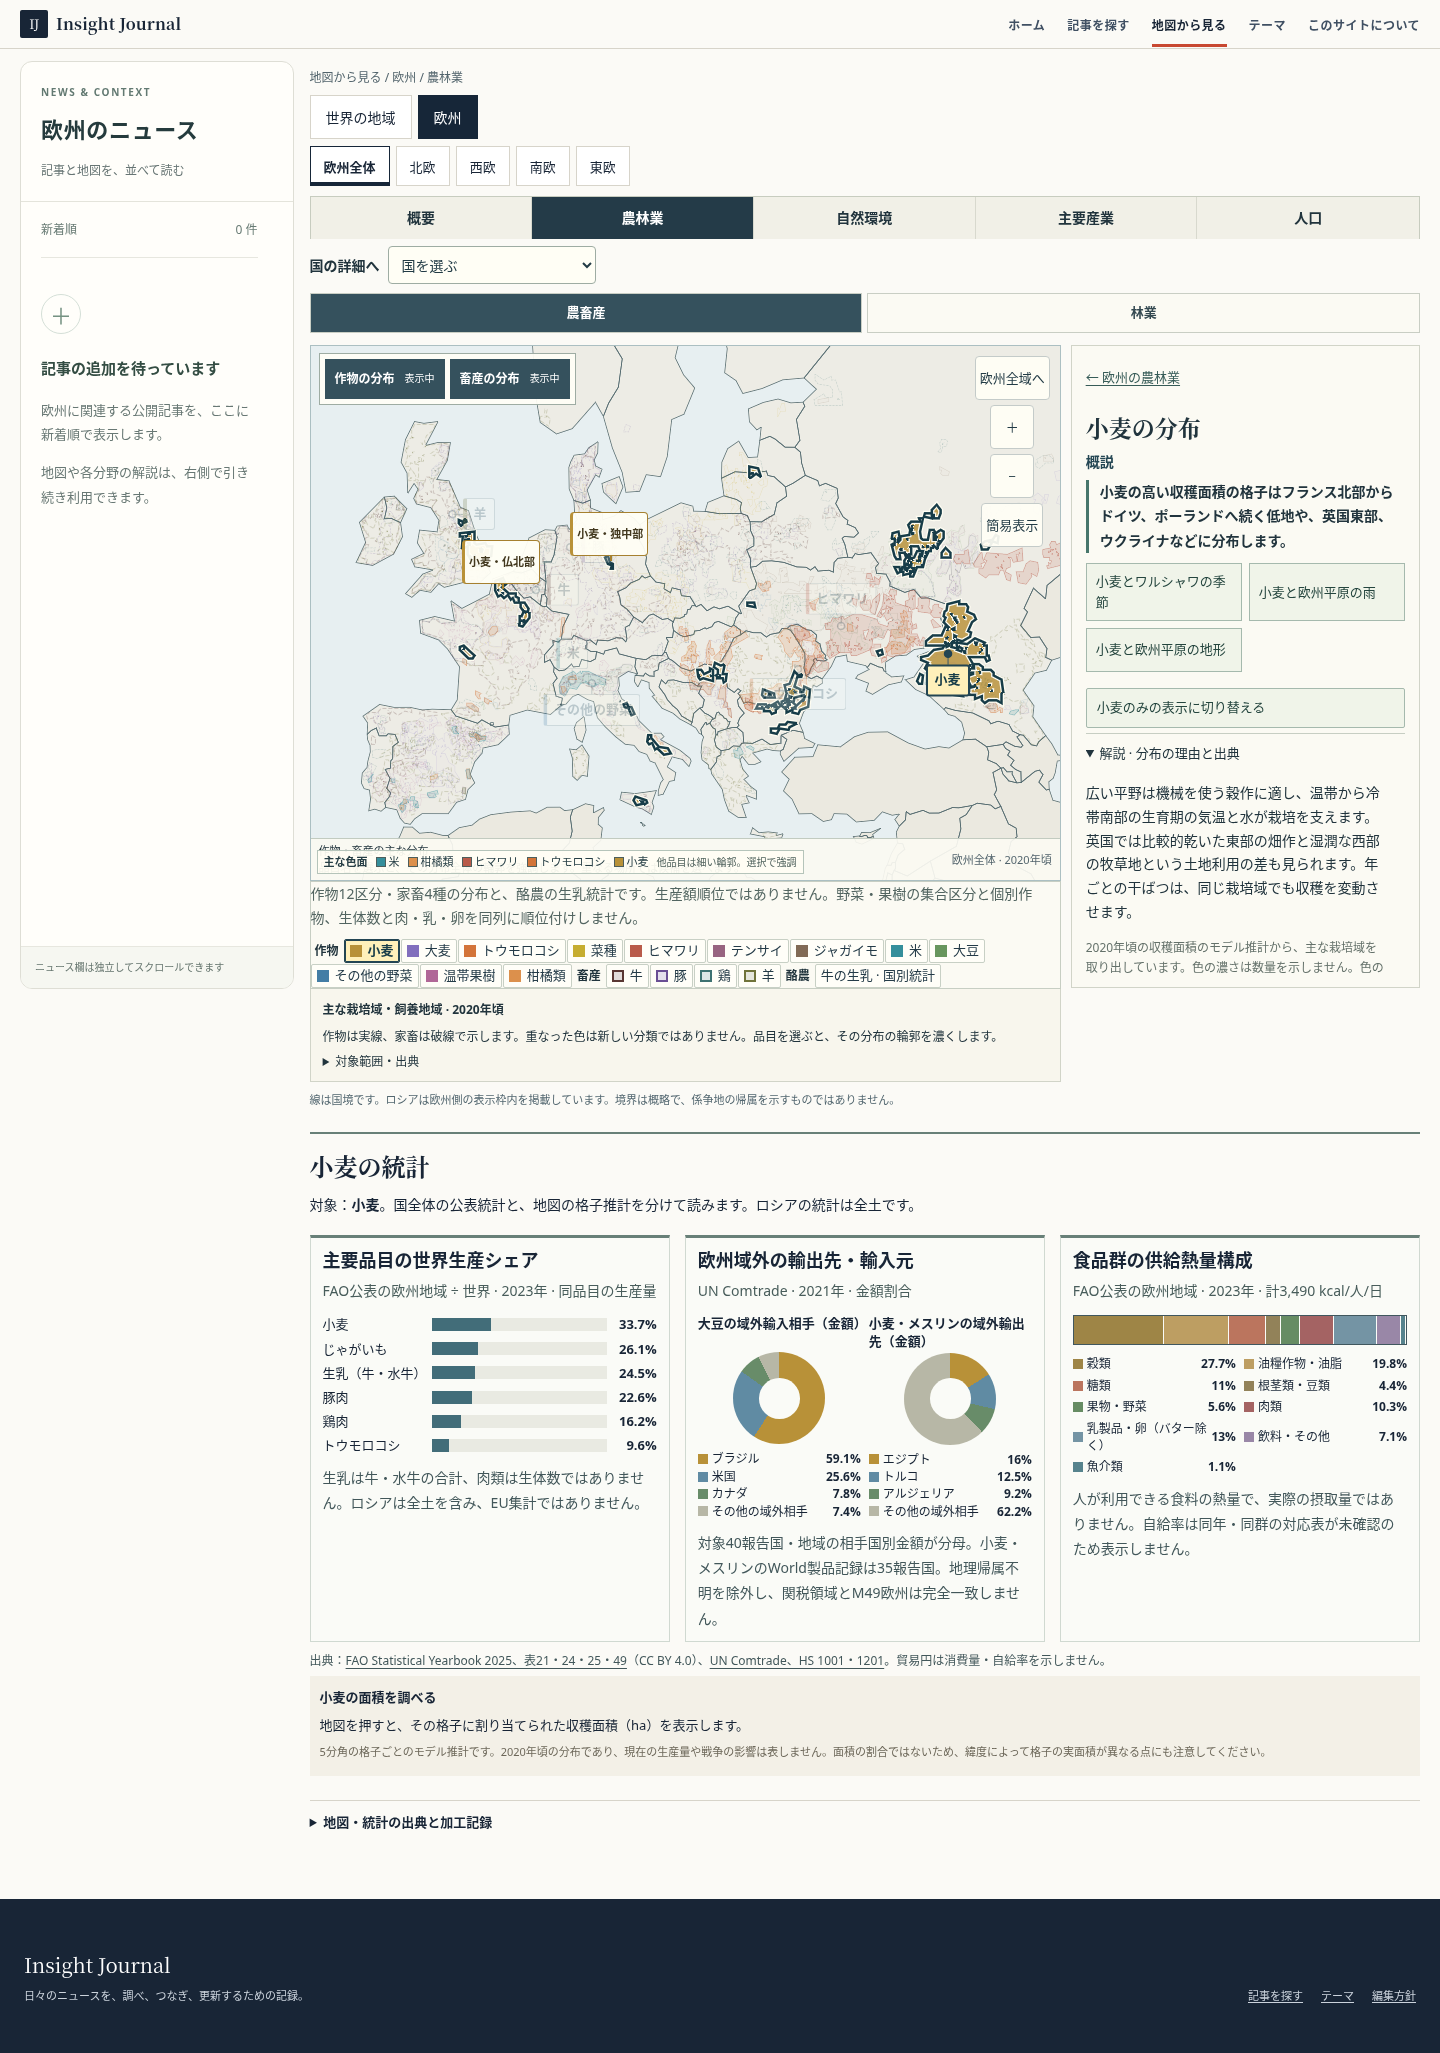
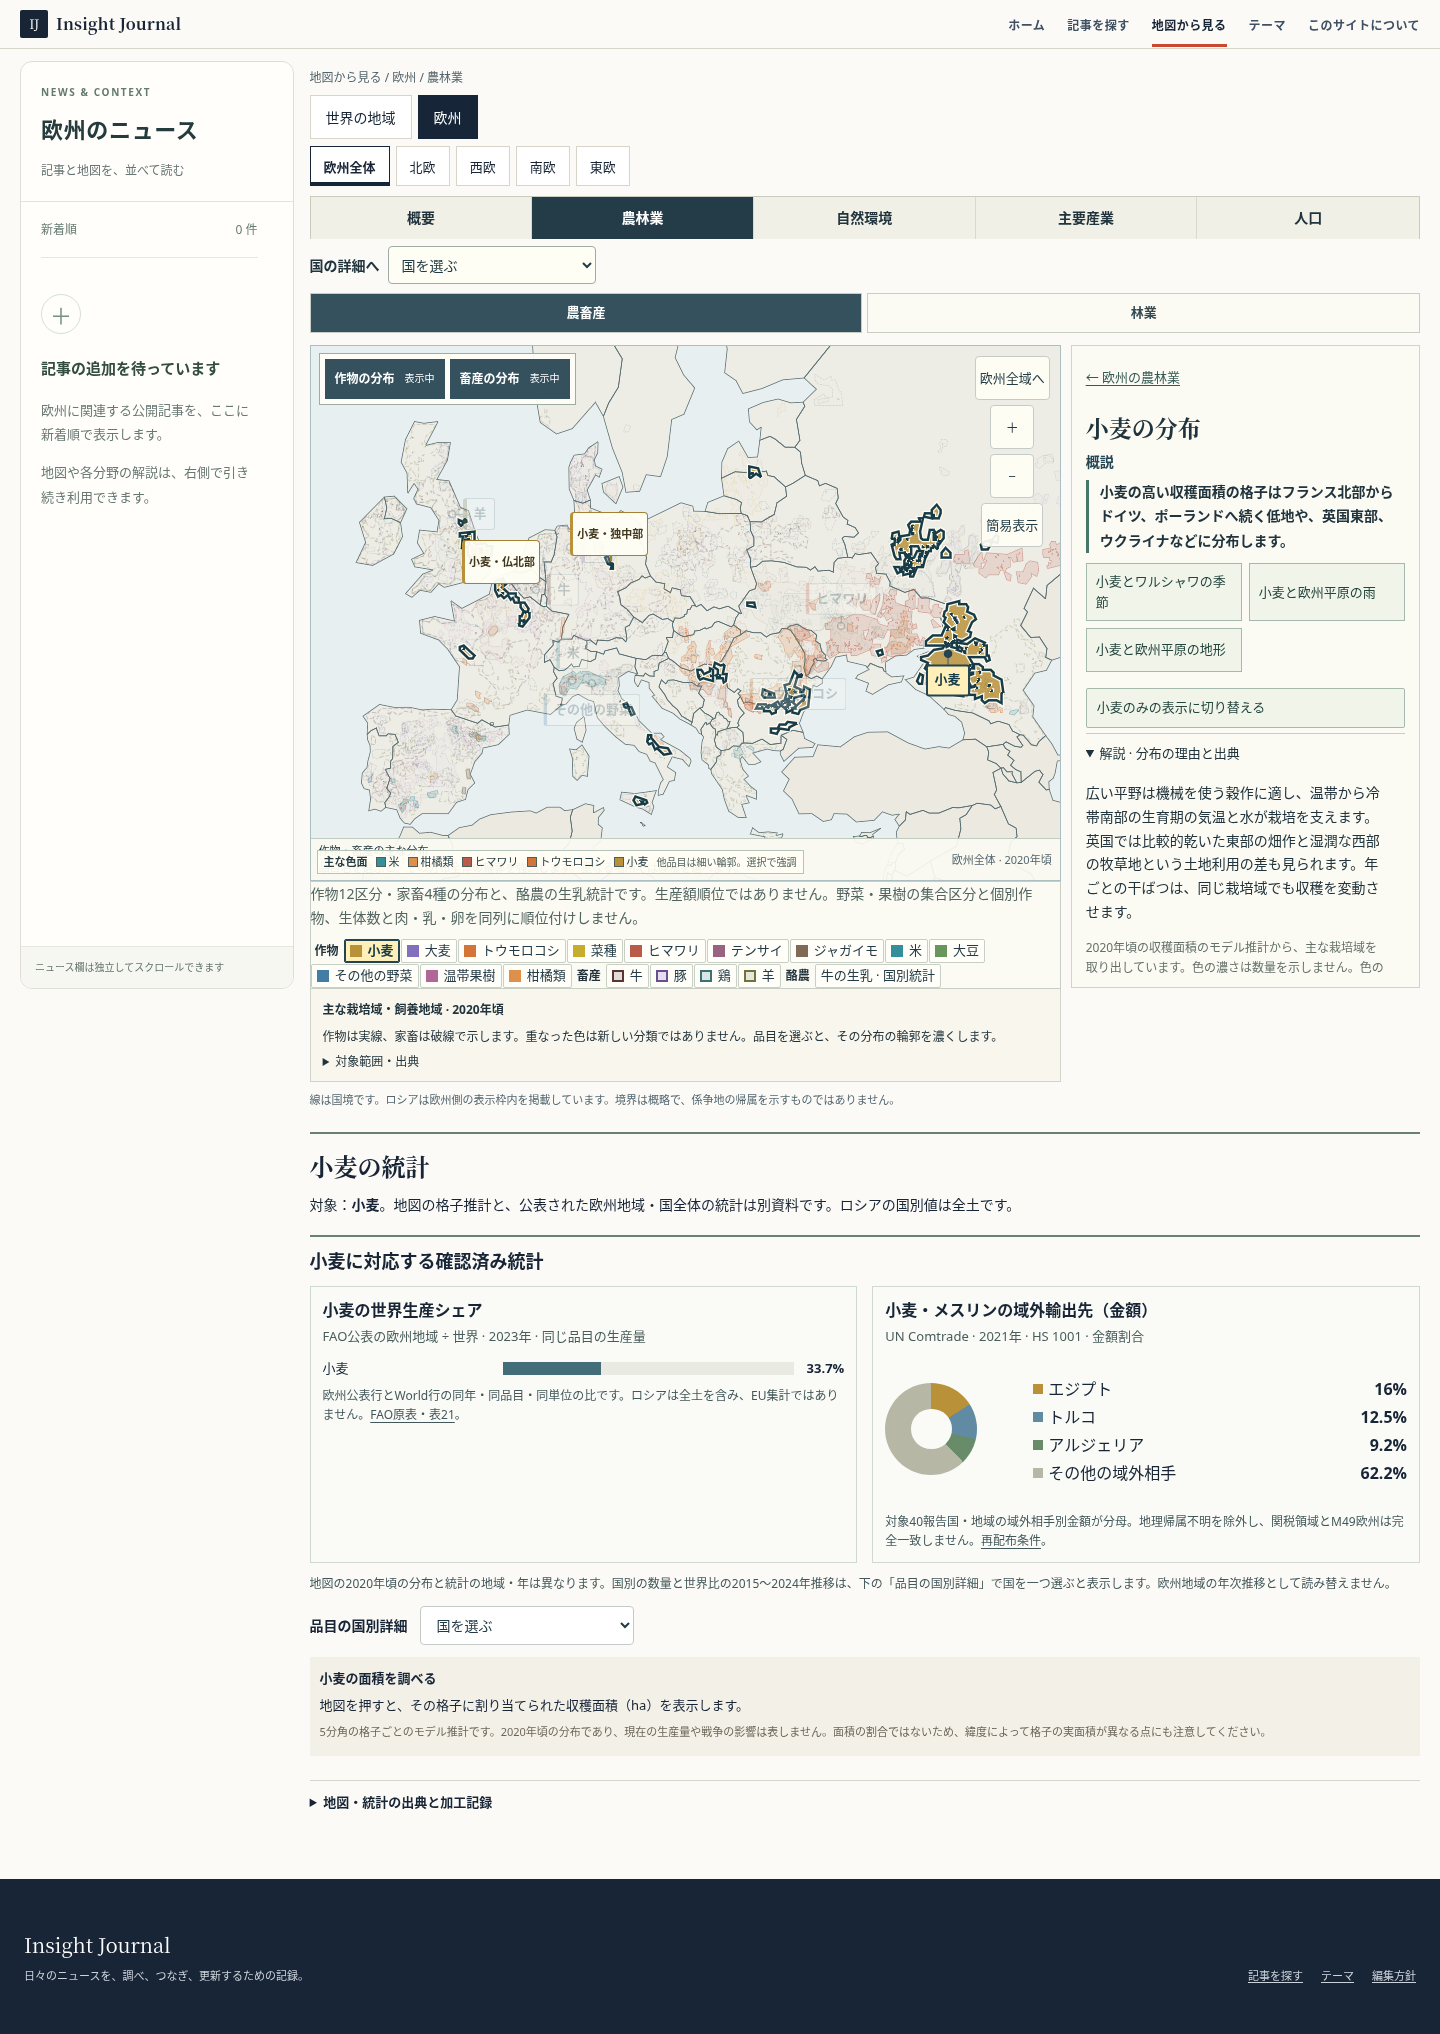
Fix Europe commodity statistics to follow selected subject

diff --git a/src/lib/atlas-europe-explorer.ts b/src/lib/atlas-europe-explorer.ts
@@ -1,5 +1,6 @@
 import { frame, europeFarmingInitialBounds, project, unproject, wheatCell, displayCell, visibleBounds, readEuropeState, writeEuropeState, defaultEuropeCity, normaliseEuropePoint } from './atlas-europe-view';
 import { farmingPresentation, farmingAtPoint, updateFarmingMap, type FarmingAreas } from './atlas-europe-farming';
+import { europeFarmAvailableMetrics } from '../data/atlas/europe/farming-statistics';
 import { layerColor, fields, europeFieldHeadings, type EuropeLayer } from '../data/atlas/europe/layers';
 import type { EuropeReading } from '../data/atlas/europe/readings';
 import type { Geometry } from './atlas-europe-geometry';
@@ -15,7 +16,6 @@ import drainageManifest from '../../public/assets/atlas/europe/drainage-v1/manif
 import { readEuropeFarmingFocus, writeEuropeFarmingFocus } from '../data/atlas/europe/farming-water-comparisons';
 import { europeIndustryGroupCopy, europeIndustryMatches, europeIndustryOverviewLabels, isEuropeIndustryCountry, normaliseEuropeIndustryGroup } from './atlas-europe-industry';
 import { createEuropeFarmingStatistics } from '../scripts/atlas-europe-farming-statistics';
-import { europeFarmAvailableMetrics } from '../data/atlas/europe/farming-statistics';
 import { createEuropeCultureOverview, europeCultureOverviewPlaces } from './atlas-europe-culture-overview';
 import precipitationLineLabels from '../data/atlas/europe/precipitation-line-labels.json' with {type:'json'};
 import { europeTerrainGuides, europeTerrainPlaceNames } from '../data/atlas/europe/terrain-geography';
@@ -70,6 +70,8 @@ export function initEuropeAtlas() {
       commit(false);
     },
   });
+  const topicCountrySelect=query<HTMLSelectElement>('[data-eu-topic-country]');
+  topicCountrySelect.addEventListener('change',()=>selectCountry(topicCountrySelect.value));
   const cultureActive=()=>state.layer==='ethnicity'||state.layer==='religion';
   const cultureOverview=createEuropeCultureOverview(root);
   let cultureData:CultureMapData={type:'FeatureCollection',features:[]};
@@ -337,12 +339,22 @@ export function initEuropeAtlas() {
     query<HTMLElement>('[data-eu-farming-statistics]').hidden=layer.field!=='agriculture';
     const forestryStatistics=['forest','treecover'].includes(layer.id);
     query<HTMLElement>('[data-eu-verified-agriculture]').hidden=forestryStatistics;
+    const selectedTopic=farm.item?.id??(layer.id==='dairy'?'dairy':'');
+    query<HTMLElement>('[data-eu-verified-overview]').hidden=!!selectedTopic;
+    all<HTMLElement>('[data-eu-verified-topic]').forEach(panel=>{panel.hidden=panel.dataset.euVerifiedTopic!==selectedTopic;});
+    const hasNationalTopic=!!selectedTopic&&europeFarmAvailableMetrics(selectedTopic).length>0;
+    query<HTMLElement>('[data-eu-topic-country-control]').hidden=!hasNationalTopic;
+    topicCountrySelect.value=hasNationalTopic?state.place:'';
     query<HTMLElement>('[data-eu-verified-wood]').hidden=!forestryStatistics;
-    query<HTMLElement>('[data-eu-farm-numbers]').hidden=!forestryStatistics;
+    const nationalDetail=hasNationalTopic&&!!state.place;
+    const farmNumbers=query<HTMLElement>('[data-eu-farm-numbers]');
+    farmNumbers.hidden=!forestryStatistics&&!nationalDetail;
+    farmNumbers.classList.toggle('is-topic-country',nationalDetail);
     const statisticsName=farm.item?.name??(layer.id==='dairy'?'牛の生乳':['forest','treecover'].includes(layer.id)?'林業':'欧州の農畜産物');
     query('[data-eu-statistics-title]').textContent=statisticsName+'の統計';
     all<HTMLElement>('[data-eu-statistics-item]').forEach(el=>{el.textContent=statisticsName;});
-    void farmStatistics.update(state);
+    query('#eu-farm-numbers-title').textContent=nationalDetail?statisticsName+'の国別数値・推移':'生産・飼養・木材の国別数量';
+    void farmStatistics.update(nationalDetail?{...state,farmYear:undefined,farmCompare:undefined}:state);
     query<HTMLElement>('[data-eu-subject-intro]').hidden=!!feature;
     const card=query<HTMLElement>('[data-eu-feature-card]');card.replaceChildren();card.hidden=!feature;
     if(feature){

diff --git a/src/styles/atlas-europe-statistics.css b/src/styles/atlas-europe-statistics.css
@@ -140,6 +140,23 @@
 .eu-workspace-root .eu-verified-food-key li strong { margin-left:auto; font-variant-numeric:tabular-nums; }
 .eu-workspace-root .eu-verified-wood { border-top:2px solid #688078; padding-top:12px; }
 .eu-workspace-root .eu-farm-numbers[data-eu-farm-numbers] > :not(.eu-forest-production) { display:none; }
+.eu-workspace-root .eu-verified-topic { border-top:2px solid #688078; padding-top:12px; }
+.eu-workspace-root .eu-verified-topic h4 { margin:0 0 5px; font:700 16px/1.45 var(--sans); }
+.eu-workspace-root .eu-verified-topic-grid { display:grid; grid-template-columns:repeat(auto-fit,minmax(250px,1fr)); gap:15px; margin:12px 0; }
+.eu-workspace-root .eu-verified-topic-card { border:1px solid #d0d9d1; padding:12px; background:#fafbf7; }
+.eu-workspace-root .eu-verified-topic-trade { display:flex; align-items:center; gap:16px; }
+.eu-workspace-root .eu-verified-topic-trade ul { flex:1; min-width:0; }
+.eu-workspace-root .eu-verified-topic-trade li { display:flex; align-items:center; gap:5px; }
+.eu-workspace-root .eu-verified-topic-trade li strong { margin-left:auto; }
+.eu-workspace-root .eu-verified-topic-missing { margin:0; padding:12px; border-left:3px solid #9a8467; background:#f4f0e6; font:14px/1.7 var(--sans); }
+.eu-workspace-root .eu-verified-topic-country { display:flex; align-items:center; gap:12px; margin:12px 0; font:700 14px/1.5 var(--sans); }
+.eu-workspace-root .eu-verified-topic-country select { min-height:38px; min-width:180px; font:14px/1.5 var(--sans); }
+.eu-workspace-root .eu-farm-numbers[data-eu-farm-numbers].is-topic-country > :is([data-eu-farm-statistics-message],[data-eu-farm-measure-definition],[data-eu-farm-stat-source]):not([hidden]) { display:block; }
+.eu-workspace-root .eu-farm-numbers[data-eu-farm-numbers].is-topic-country > [data-eu-farm-stat-summary]:not([hidden]) { display:grid; }
+.eu-workspace-root .eu-farm-numbers[data-eu-farm-numbers].is-topic-country > [data-eu-farm-series]:not([hidden]) { display:block; }
+.eu-workspace-root .eu-farm-numbers[data-eu-farm-numbers].is-topic-country > [data-eu-farm-statistics-retry]:not([hidden]) { display:inline-block; }
+.eu-workspace-root .eu-farm-numbers[data-eu-farm-numbers].is-topic-country > [data-eu-farm-three-columns] { display:grid; grid-template-columns:minmax(0,1fr); }
+.eu-workspace-root .eu-farm-numbers[data-eu-farm-numbers].is-topic-country > [data-eu-farm-three-columns] > section:not(:first-child) { display:none; }
 .eu-workspace-root .eu-wood-stage { margin:14px 0; }
 .eu-workspace-root .eu-wood-stage h4 { margin:0 0 5px; font:700 16px/1.4 var(--sans); }
 .eu-workspace-root .eu-wood-row { display:grid; grid-template-columns:100px minmax(0,1fr) 110px; gap:10px; align-items:center; margin:5px 0; font:13px/1.4 var(--sans); }

diff --git a/src/data/atlas/europe/verified-topic-statistics.ts b/src/data/atlas/europe/verified-topic-statistics.ts
@@ -1,0 +1,8 @@
+/** Only figures whose commodity matches the selected map subject are shown.
+ * Livestock location maps describe animals, not meat or milk production. */
+export const europeVerifiedTopicMatches:Record<string,{productionId?:string;tradeId?:string}>={
+  wheat:{productionId:'wheat',tradeId:'wheat_export'},
+  potato:{productionId:'potatoes'},
+  maize:{productionId:'maize'},
+  soybean:{tradeId:'soy_import'},
+};

diff --git a/docs/review/europe-2026-10-08/README.md b/docs/review/europe-2026-10-08/README.md
@@ -5,7 +5,7 @@ Draft PR 用の確認記録です。1440 × 1000 px の Chromium で本番ビル
 ## 代表画面
 
 - [農畜産・初期](agriculture-initial.png)：全16品目を初期から同時表示。小麦を含む主要産地を件数で切りません。
-- [小麦を選択](agriculture-wheat.png)：フランス北部とドイツ中部の実際の小麦域にラベルを置き、他品目を残して輪郭を強調。
+- [小麦を選択](agriculture-wheat.png)：フランス北部とドイツ中部の実際の小麦域にラベルを置き、他品目を残して輪郭を強調。下段は小麦の世界生産シェアと小麦の域外輸出先だけを表示。
 - [林業](forest.png)：樹木被覆と、同じ加工段階ごとの供給・見かけ消費。
 - [地形・山地と平原](terrain-landforms.png)：名称と概略軸、概説と成り立ち。
 - [降水量](precipitation.png)：250 mm間隔の雨量線・段階色と、地図内の代表値。
@@ -18,6 +18,7 @@ Draft PR 用の確認記録です。1440 × 1000 px の Chromium で本番ビル
 - 国名の選択は既存の国の概要への移動です。年・国の任意比較操作を画面から除きました。
 - 地形、人口、水系・降水の初期表示範囲を調整しました。表示枠外はドラッグで見られます。
 - 農畜産の下段統計に、FAO公表の2023年欧州地域の世界生産シェアと供給熱量9群、UN Comtradeの2021年対象報告地域の域外貿易相手先を掲載しました。年・集合・金額分母を各図に明記しています。自給率の同年・同群対応表は未確認のため数値を作っていません。
+- 品目を選ぶと欧州全体の3列から、その品目と一致する確定統計へ切り替えます。小麦は小麦の世界比・輸出先、大豆は大豆輸入先です。対応する地域集計のない品目は別品目で埋めず、国を一つ選んだときだけ既存FAOSTATの同品目・国別の世界比と年次推移を示します。
 - 林業にはEurostat 2024年の4か国・産業用丸太と製材の供給と見かけ消費を掲載しました。在庫調整済みの消費量や最終用途とは呼んでいません。既存のFAOSTAT国別丸太・製材比較は補助表示です。
 - 産業の10分野は地点と複合産業名を初期地図に表示。地形では名称・概略範囲を主にし、標高数値は500m等高線へ切り替えて読みます。降水量のmm表示は線上の検証済み点へ結ぶ目印を付けました。
 
@@ -31,4 +32,4 @@ Draft PR 用の確認記録です。1440 × 1000 px の Chromium で本番ビル
 - 宗教：4か国の地域表と各表の母集団・未回答を確認。全国値を地方へ複写しない。
 - 流域：現在のBasinATLAS level 4区画を川全流域と呼び替えず、全流域・本流・河口の検証済み形状を追加する。
 
-ローカルの本番ビルド、単体テスト1034件（成功1031、失敗0、既存スキップ3）、欧州E2E 46件（成功46）を確認しました。1440×1000 pxのChromiumで上記6画面を再撮影し、MapLibreの読み込みと実行時エラーなしを確認しました。1024×800 pxでも農畜産・産業・自然環境の横はみ出しはありません。全地域E2Eと公開境界はPRのCIで確認します。
+ローカルの本番ビルド、単体テスト1034件（成功1031、失敗0、既存スキップ3）、欧州E2Eを確認しました。1440×1000 pxのChromiumで代表6画面を確認し、品目別統計の修正後は小麦画面1枚を再撮影して国別詳細まで操作確認しました。1024×800 pxでも農畜産・産業・自然環境の横はみ出しはありません。全地域E2Eと公開境界はPRのCIで確認します。
